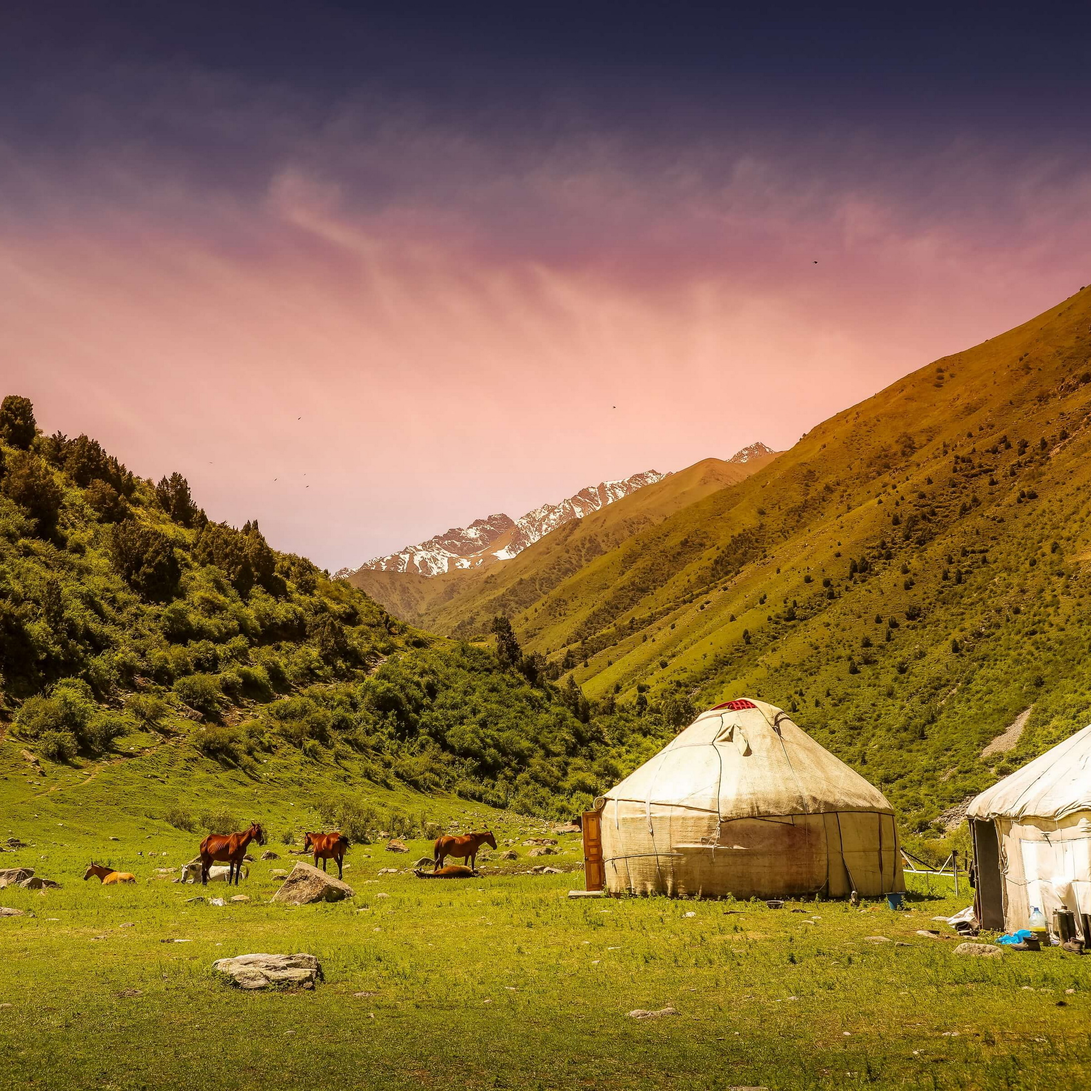
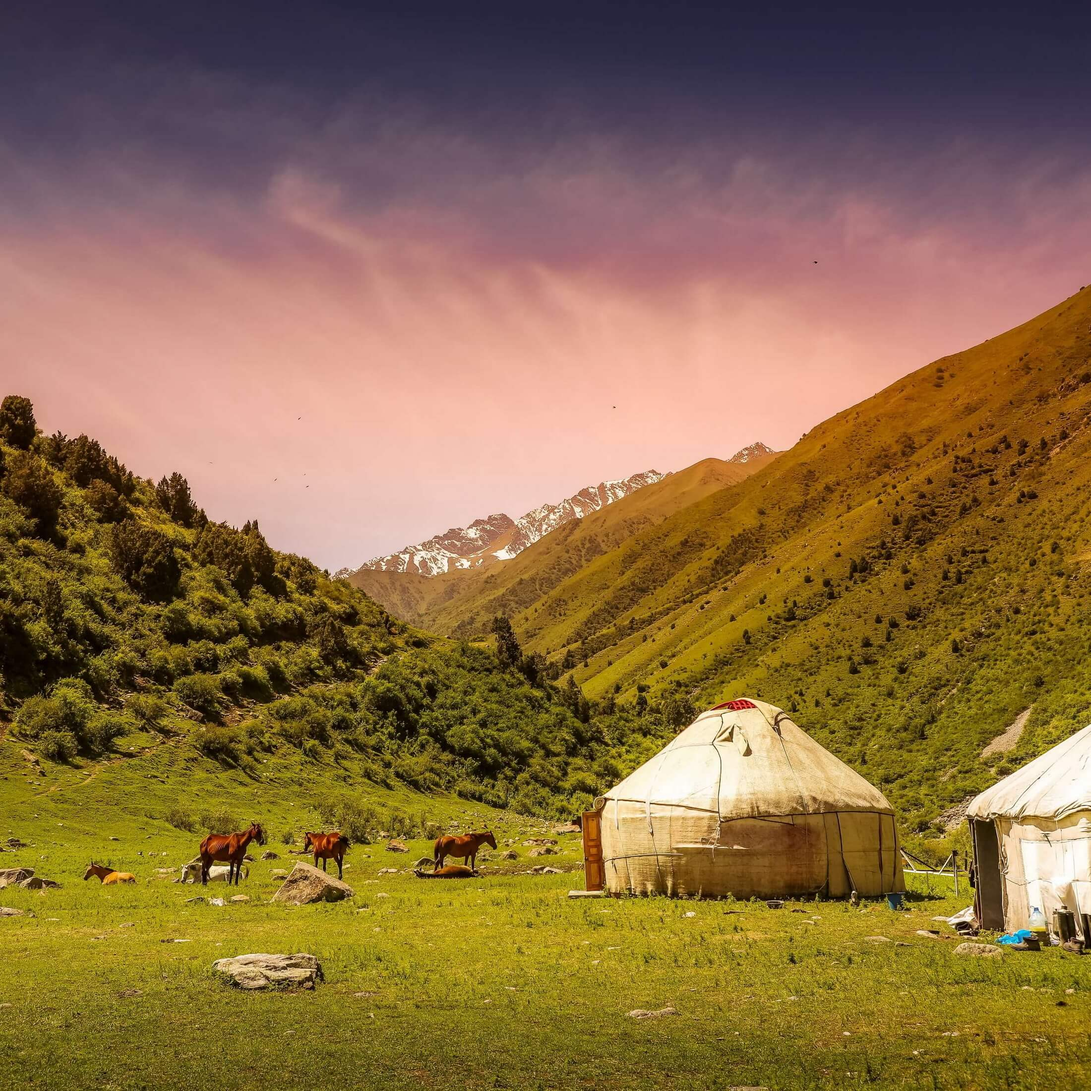
Сжатие картинок

Changed region(s): [[0.1236, 0.6491, 0.1855, 0.7109], [0.2473, 0.68, 0.2782, 0.7109]]

diff --git a/index.html b/index.html
@@ -35,7 +35,7 @@
       </div>
 
       <div class="element">
-        <img class="element__image" src="./images/2_Tbilissi.jpg" alt="Tbilisi">
+        <img class="element__image" src="./images/2_Tbilissi.jpg" alt="Tbilissi">
         <div class="element__description">
           <h2 class="element__title">Тбилиси</h2>
           <button class="element__like" type="button" arial-label="Нравится"></button>
